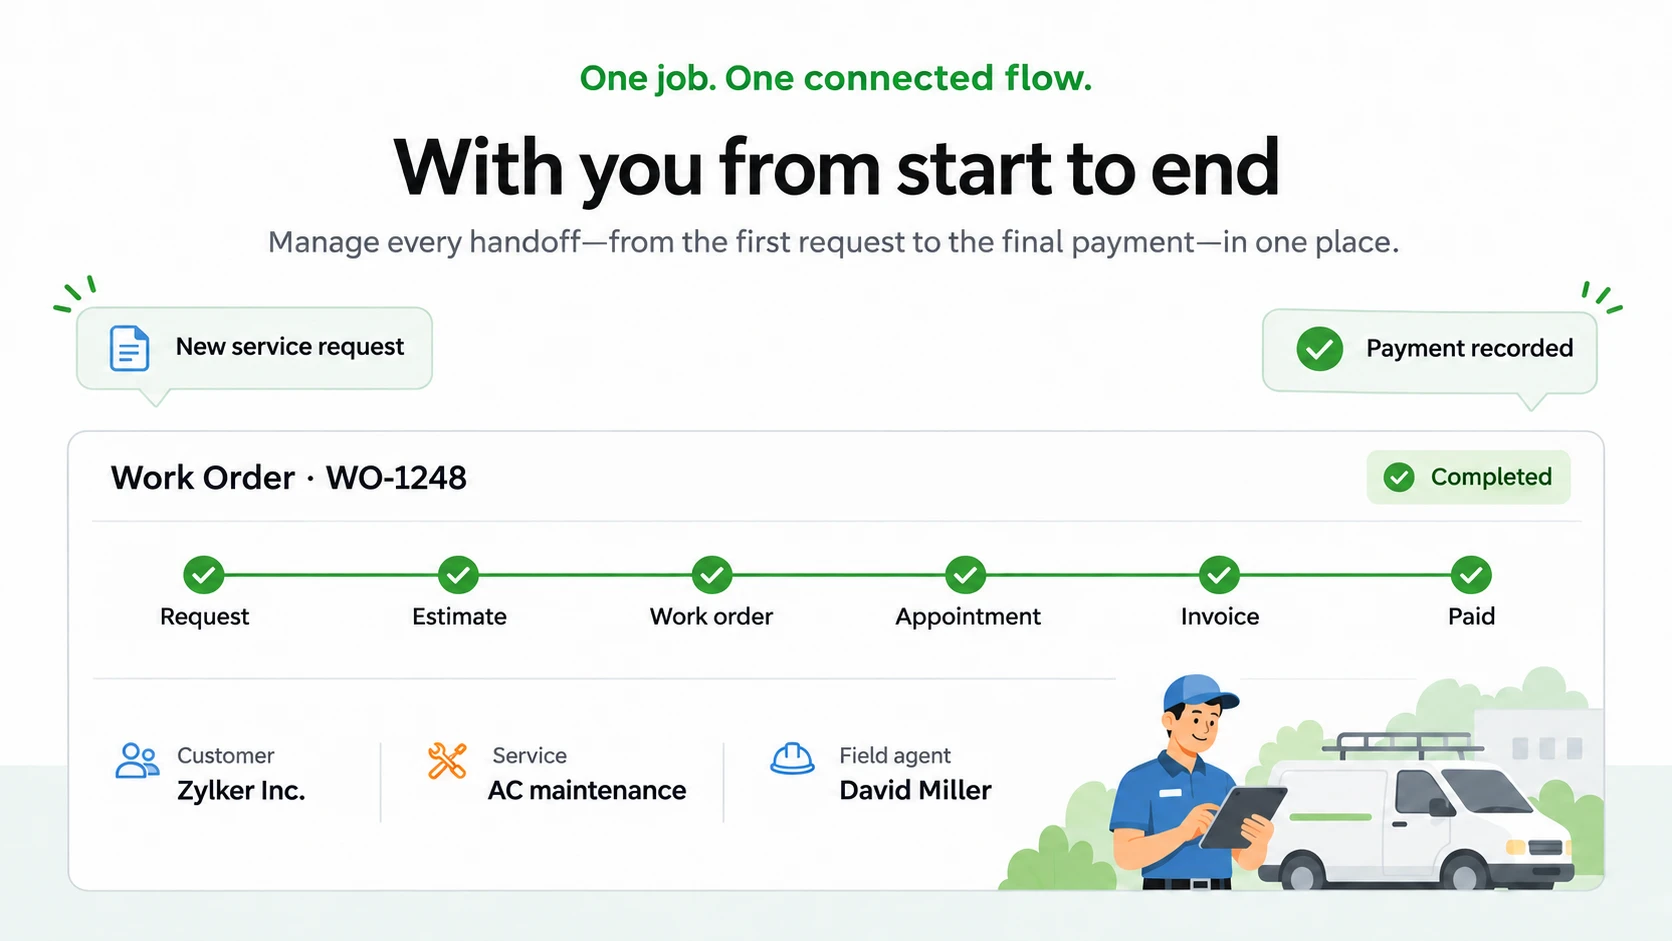
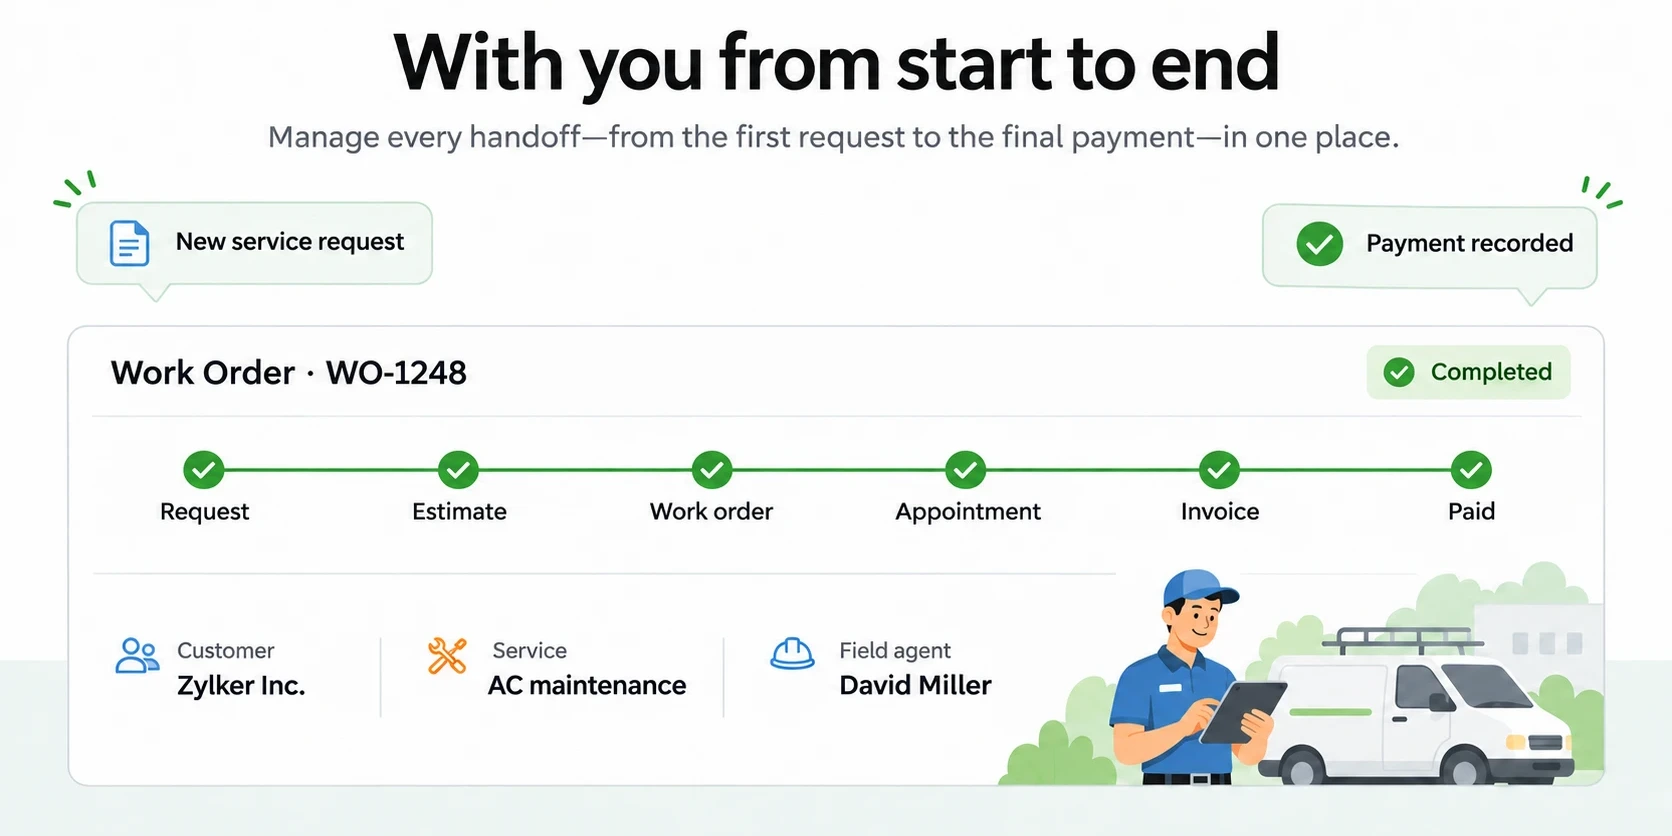
Remove 'One job. One connected flow.' text from start-to-end image

diff --git a/index.html b/index.html
@@ -11,7 +11,7 @@
 <link rel="preconnect" href="https://fonts.googleapis.com">
 <link rel="preconnect" href="https://fonts.gstatic.com" crossorigin>
 <link href="https://fonts.googleapis.com/css2?family=Caveat&family=Instrument+Sans:wght@400;500;600;700&display=swap" rel="stylesheet">
-<link rel="stylesheet" href="styles.css?v=20261126k">
+<link rel="stylesheet" href="styles.css?v=20261126l">
 </head>
 <body>
 <div class="page">
@@ -427,7 +427,7 @@
 
 <!-- With you from start to end -->
 <section class="s2e" aria-label="With you from start to end">
-  <img src="assets/start-to-end.webp" alt="One job, one connected flow. With you from start to end: a work order WO-1248 moves from request, estimate, work order, appointment and invoice to paid, all in one place." width="1672" height="941" loading="lazy">
+  <img src="assets/start-to-end.webp?v=2" alt="One job, one connected flow. With you from start to end: a work order WO-1248 moves from request, estimate, work order, appointment and invoice to paid, all in one place." width="1672" height="836" loading="lazy">
 </section>
 
 <!-- Customize for your industry -->

diff --git a/styles.css b/styles.css
@@ -1390,5 +1390,5 @@ a:focus-visible,button:focus-visible{outline:2px solid var(--brand-green);outlin
 .eo-stage{overflow:hidden;border-radius:18px}
 .eo-slide__img{display:block;width:100%;height:auto;border-radius:18px}
 
-.s2e{background:linear-gradient(to bottom,#fff 0,#fff 81.4%,#ecf5f3 81.4%,#ecf5f3 100%);display:flex;justify-content:center}
+.s2e{background:linear-gradient(to bottom,#fff 0,#fff 79.1%,#ecf5f3 79.1%,#ecf5f3 100%);display:flex;justify-content:center}
 .s2e img{display:block;width:100%;max-width:1100px;height:auto}
